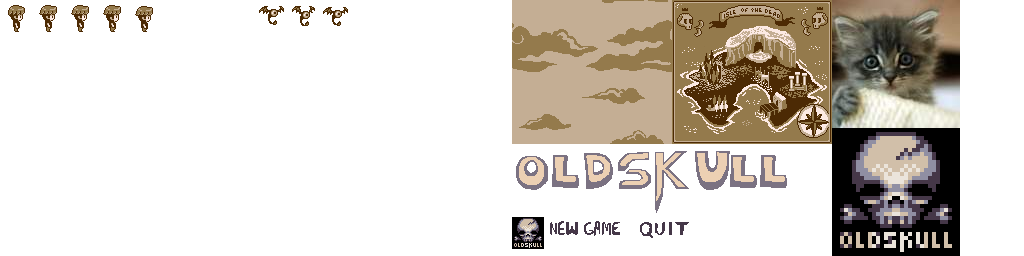
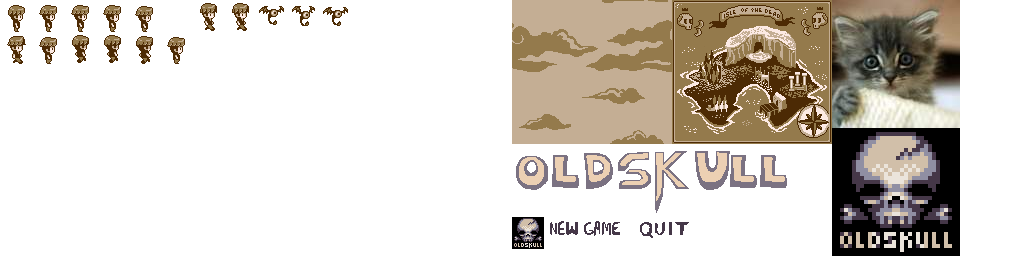
Player better controls and animation

Changed region(s): [[0.0, 0.125, 0.1875, 0.25], [0.1875, 0.0, 0.25, 0.125]]

diff --git a/OldSkull/GameLevel/Player.cs b/OldSkull/GameLevel/Player.cs
@@ -9,24 +9,44 @@ namespace OldSkull.GameLevel
 {
     class Player : PlatformerObject
     {
-        public Player(Vector2 position, Vector2 size)
+        private string imageName;
+
+        public Player(Vector2 position, Vector2 size,string imageName)
             :base(position,size)
         {
-
+            this.imageName = imageName;
         }
 
         public override void Update()
         {
             base.Update();
 
+            UpdateControls();
+        }
+
+        private void UpdateControls()
+        {
             Speed.X *= 0.8f;
-            Speed.X += KeyboardInput.xAxis * 0.5f;
-            if (KeyboardInput.xAxis < 0) image.FlipX = true;
-            if (KeyboardInput.xAxis > 0) image.FlipX = false;
+            if (Math.Abs(KeyboardInput.xAxis) > 0)
+            {
+                Speed.X += KeyboardInput.xAxis * 0.2f;
+                if (KeyboardInput.xAxis < 0) image.FlipX = true;
+                else image.FlipX = false;
+
+                image.Play("walk");
+            }
+            else
+            {
+                image.Play("idle");
+            }
 
             if (KeyboardInput.pressedInput("jump"))
             {
-                if (onGround) Speed.Y = -3;
+                if (onGround) Speed.Y = -4;
+            }
+            else if (!KeyboardInput.checkInput("jump") && (Speed.Y<0))
+            {
+                Speed.Y *= 0.7f;
             }
         }
 
@@ -34,8 +54,8 @@ namespace OldSkull.GameLevel
         {
             base.Added();
 
-            MaxSpeed = new Vector2(2);
-            image = OldSkullGame.SpriteData.GetSpriteString("jonathan");
+            MaxSpeed = new Vector2(2f,3);
+            image = OldSkullGame.SpriteData.GetSpriteString(imageName);
             Add(image);
             image.X = image.Width / 2;
             image.Y = image.Height / 2;

diff --git a/OldSkull/Isle/IsleLevel.cs b/OldSkull/Isle/IsleLevel.cs
@@ -28,7 +28,7 @@ namespace OldSkull.Isle
         {
             if (e.Name == "Player")
             {
-                Player po = new Player(new Vector2(e.AttrFloat("x"), e.AttrFloat("y")), new Vector2(13,24));
+                Player po = new Player(new Vector2(e.AttrFloat("x"), e.AttrFloat("y")), new Vector2(13, 24), "jonathan");
                 Add(po);
                 CameraTarget = po;
             }
